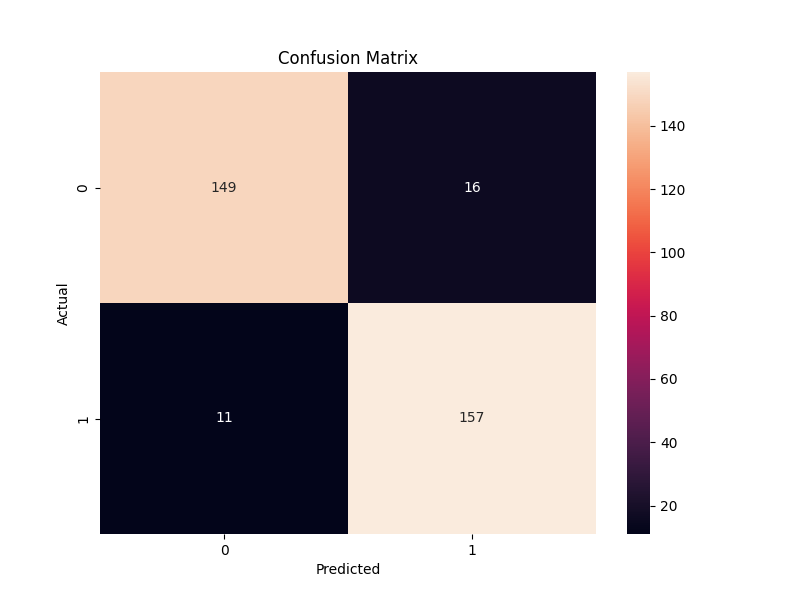
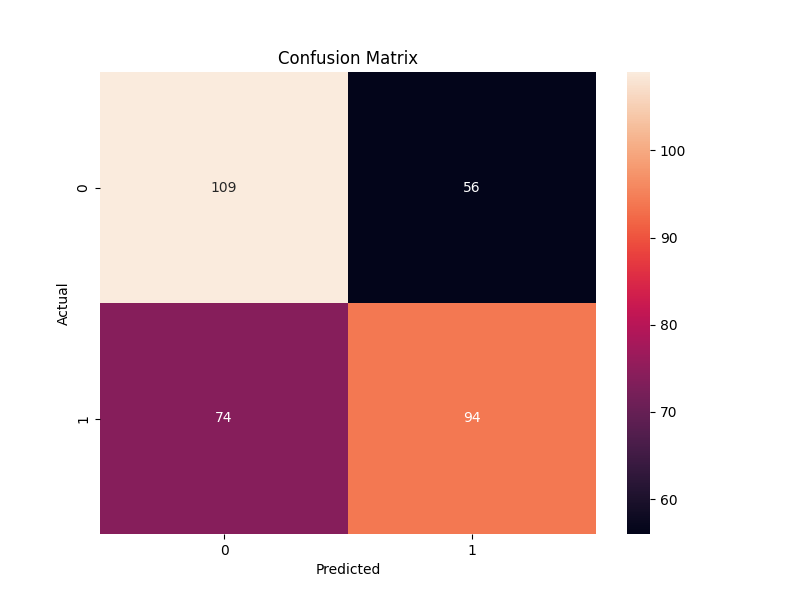
ran SVC model

diff --git a/train.py b/train.py
@@ -1,5 +1,5 @@
 import pandas as pd
-from sklearn.linear_model import LogisticRegression
+from sklearn.svm import SVC
 from sklearn.metrics import accuracy_score, confusion_matrix
 import json
 import seaborn as sns
@@ -29,7 +29,7 @@ y = df.iloc[:, -1]
 print("Data split into X and y")
 
 # Train model
-model = LogisticRegression(random_state=42, max_iter=1000)
+model = SVC(random_state=42)
 model.fit(X, y)
 print("Model trained successfully")
 
